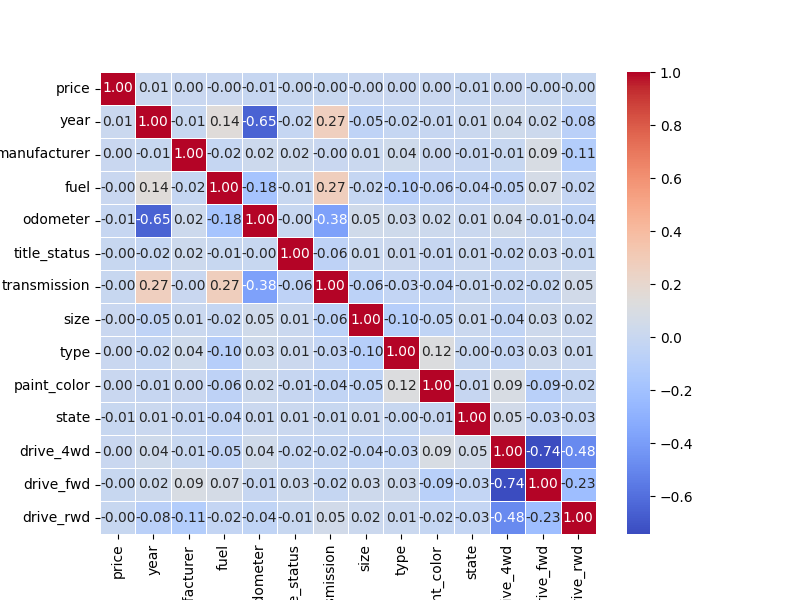
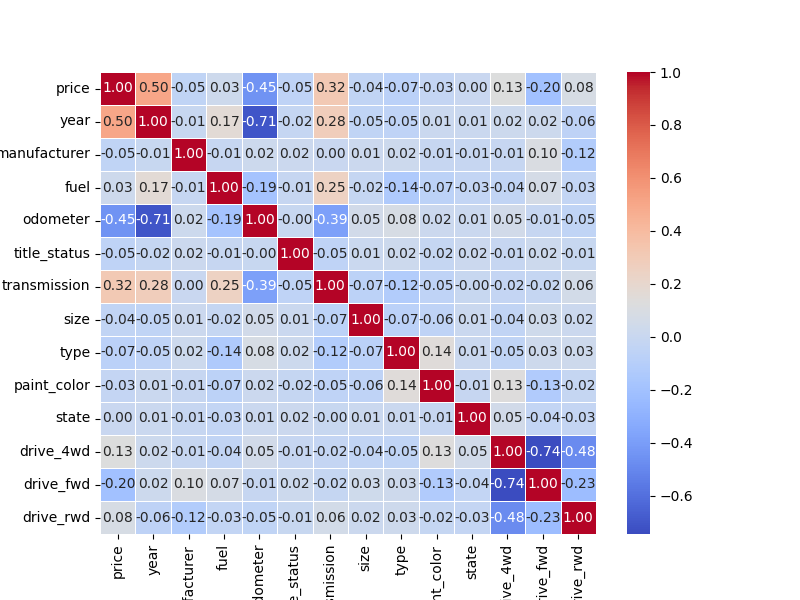
Added train + experiment nonlinear

diff --git a/process_dataset.py b/process_dataset.py
@@ -1,6 +1,7 @@
 import pandas as pd
 import matplotlib.pyplot as plt
 import seaborn as sns
+import numpy as np
 
 df = pd.read_csv("vehicles_trimmed.csv")
 # print(df.head())
@@ -211,12 +212,39 @@ df['odometer'] = df['odometer'].fillna(df['odometer'].mean())
 
 df.to_csv("car_cleaned.csv")
 
+
+
+print(df["price"].head())
+print(df["price"].info())
+print(df["price"].describe())
+df['price'] = df['price'].fillna(df['price'].mean()) 
+
+Q1 = df['price'].quantile(0.25)
+Q3 = df['price'].quantile(0.75)
+IQR = Q3 - Q1
+
+lower_bound = Q1 - 1.5 * IQR
+upper_bound = Q3 + 1.5 * IQR
+
+df = df[(df['price'] > lower_bound) & (df['price'] < upper_bound)]
+
+
+df['price'] = np.log1p(df['price'])
+# print(df.info())
+# print(df.head())
+
 correlation_matrix = df.corr()
 
 plt.figure(figsize=(8, 6))  # Set the figure size
 sns.heatmap(correlation_matrix, annot=True, cmap='coolwarm', fmt='.2f', linewidths=0.5)
 plt.savefig("./img/corr.png", format="png")
+plt.figure(figsize=(8, 6))  # Set the figure size
+
+correlation_matrix = df.corr(method="spearman")
+
+plt.figure(figsize=(8, 6))  # Set the figure size
+sns.heatmap(correlation_matrix, annot=True, cmap='coolwarm', fmt='.2f', linewidths=0.5)
+plt.savefig("./img/corr.png", format="png")
+plt.figure(figsize=(8, 6))  # Set the figure size
 
 
-print(df.info())
-print(df.head())

diff --git a/train_model.py b/train_model.py
@@ -1,0 +1,25 @@
+from sklearn.model_selection import train_test_split
+from sklearn.linear_model import LogisticRegression
+from sklearn.metrics import accuracy_score, confusion_matrix, ConfusionMatrixDisplay,root_mean_squared_error
+from sklearn.ensemble import RandomForestRegressor
+import pandas as pd
+from sklearn.svm import SVC
+import joblib
+
+df = pd.read_csv("car_cleaned.csv")
+
+X = df.drop(columns="price",axis=1)
+y = df["price"]
+X_train, X_test, y_train, y_test = train_test_split(X,y,test_size = 0.2,random_state = 20) 
+print(1)
+model = RandomForestRegressor()
+model.fit(X_train,y_train)
+print(2)
+
+y_pred = model.predict(X_test)
+print(3)
+
+accuracy = root_mean_squared_error(y_test, y_pred)
+print(f"Acuratețea modelului de regresie logistică: {accuracy:.2f}")
+
+joblib.dump(model,"model.pk1")

diff --git a/README.md b/README.md
@@ -145,7 +145,7 @@ Aplicam aceleasi masuri ca la price.
 
 ![Corr](./img/corr.png)
 
-Vedem ca pretul nu este influentat de vreo variabila in mod special, insa
+Vedem ca pretul nu este influentat liniar de vreo variabila in mod special, insa
 exista o corelatie intre an si transmission, una inversa fata de
 incidente(title) si fata de kilometraj.
 
